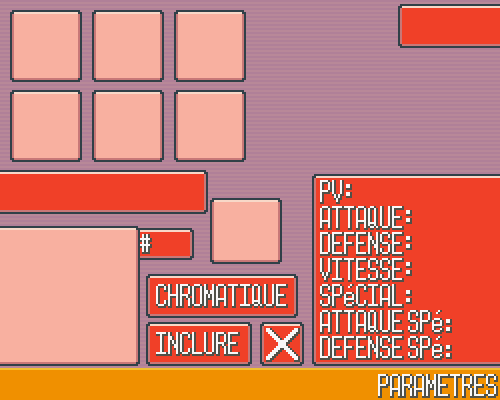
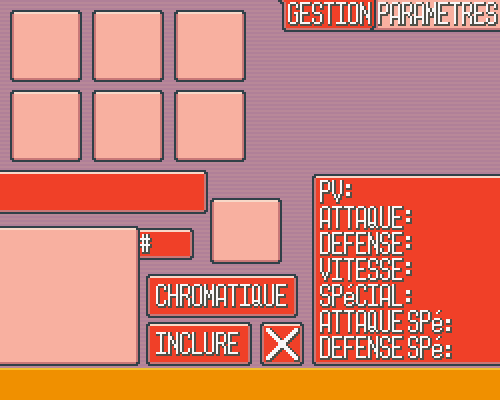
Amélioration de l'interface des équipes

Changed region(s): [[0.54, 0.0, 1.0, 0.12], [0.75, 0.93, 1.0, 1.0]]

diff --git a/fenetre_equipes.py b/fenetre_equipes.py
@@ -827,12 +827,7 @@ def creation_equipe(master,equipechoisie,x,y,event):
     path = PhotoImage('images/sprites3g/icones/empty.png')
     pokemon=Label(master, image=path,bg='#f8b0a0',borderwidth=0, highlightthickness=0)
     pokemon.place(x=6,y=230)
-    
-    path = ('images/fonds/etiquetteequipe1.png')
-    etiquetteequipeimg = ImageTk.PhotoImage(Image.open(path))
-    etiquetteequipe=Label(master,image=etiquetteequipeimg,borderwidth=0, highlightthickness=0,bg='#f8b0a0')
-    etiquetteequipe.place(x=398,y=4)
-    etiquetteequipe.photo=etiquetteequipeimg
+
     
     path = ('images/types/empty.png')
     type1img = ImageTk.PhotoImage(Image.open(path))
@@ -1482,10 +1477,10 @@ def creation_equipe(master,equipechoisie,x,y,event):
         #_________________________________________________________________________________________________________________
                 
                 
-    path = ('images/fonds/retourgestion.png')
+    path = ('images/fonds/gestionequipe.png')
     retour_gestionimg = ImageTk.PhotoImage(Image.open(path))
     retour_gestion=Label(master,image=retour_gestionimg,borderwidth=0, highlightthickness=0,bg='#f8b0a0')
-    retour_gestion.place(x=160,y=374)
+    retour_gestion.place(x=282,y=0)
     retour_gestion.photo=retour_gestionimg
     retour_gestion.bind('<Button-1>',lambda event:parametres_vers_gestion())
     retour_gestion.place_forget()
@@ -1551,11 +1546,10 @@ def creation_equipe(master,equipechoisie,x,y,event):
         
         inclure.place_forget()
         supprimer.place_forget()
-        etiquetteequipe.place_forget()
         pokemon.place_forget()
         parametres.place_forget()
         
-        retour_gestion.place(x=160,y=374)
+        retour_gestion.place(x=282,y=0)
         supprimerlesmembres.place(x=34,y=36)
         renommerlequipe.place(x=34,y=84)
         suprrimerlequipe.place(x=34,y=132)
@@ -1595,7 +1589,7 @@ def creation_equipe(master,equipechoisie,x,y,event):
         
         inclure.place(x=146,y=322)
         supprimer.place(x=260,y=322)
-        parametres.place(x=378,y=374)
+        parametres.place(x=376,y=0)
         
         label1.place(x=20,y=180)
         label2.place(x=32,y=180)        
@@ -1643,7 +1637,6 @@ def creation_equipe(master,equipechoisie,x,y,event):
         
         chromatiquelb.place(x=146,y=274)
         pokemon.place(x=6,y=230)
-        etiquetteequipe.place(x=398,y=4)
         type1.place(x=214,y=202)
         type2.place(x=214,y=232)
         
@@ -1681,7 +1674,7 @@ def creation_equipe(master,equipechoisie,x,y,event):
     path = ('images/fonds/parametresequipe.png')
     parametresimg = ImageTk.PhotoImage(Image.open(path))
     parametres=Label(master,image=parametresimg,borderwidth=0, highlightthickness=0,bg='#f8b0a0')
-    parametres.place(x=378,y=374)
+    parametres.place(x=376,y=0)
     parametres.photo=parametresimg
     parametres.bind('<Button-1>',lambda event:gerer_vers_parametres())
     
@@ -1712,7 +1705,7 @@ def choix_equipe_plus(master,pos,equipeorigine,fenetre):
     master.geometry('200x100+800+342')
     master.resizable(False,False)
     
-    background=PhotoImage(file='images/fonds/fondplusequipe.png')
+    background=PhotoImage(file='images/fonds/nouveaunom.png')
     bg=Label(master, image=background)
     bg.place(x=-2,y=-2)
     
@@ -1720,7 +1713,7 @@ def choix_equipe_plus(master,pos,equipeorigine,fenetre):
     
     listelabel=[]
     
-    path=PhotoImage(file='images/font3g/underscore.png')
+    path=PhotoImage(file='images/font3g/espace.png')
     
     label01=Label(master,image=path,borderwidth=0, highlightthickness=0)
     listelabel.append(label01)
@@ -1764,59 +1757,70 @@ def choix_equipe_plus(master,pos,equipeorigine,fenetre):
     
     label9=Label(master,image=path,borderwidth=0, highlightthickness=0)
     listelabel.append(label9)
-    label9.place(x=138,y=22)
+    label9.place(x=150,y=22)
             
     label10=Label(master,image=path,borderwidth=0, highlightthickness=0)
     listelabel.append(label10)
-    label10.place(x=150,y=22)
+    label10.place(x=162,y=22)
+    
+    print(len(listelabel))
     
     cherche=Entry(master)
     cherche.place(x=-50,y=-50)
     cherche.focus_set()
     bg.place(x=-2,y=-2)
     
-    def bg_renommer():
-        
-        master.title("Renommer l'équipe")
-                
-        background=PhotoImage(file='images/fonds/chercheequipenouveaunom.png')
-        bg.config(image=background)
-        bg.im=background
-    
     def lettre(effacer,liste):
         
         mot=cherche.get()
-        cherche.delete(len(mot),END)
+        cherche.delete(12,END)
         
         if effacer!='':
             
-            mot=''
+            for i in range(len(listelabel)):
+            
+                mot=''
+                path = ('images/font3g/espace.png')
+                img = ImageTk.PhotoImage(Image.open(path))
+                                
+                listelabel[i].configure(image=img, borderwidth=0, highlightthickness=0, bg='#f04028')
+                listelabel[i].im=img
             
         else:
             
-            mot=cherche.get()
+            for i in range((len(mot))):
+                
+                if i == 12:
+                    break
+                    
+                if mot[i] == ' ':
+                            
+                    effacer_fonction(listelabel)
+                    
+                elif mot[i] == '':
+                            
+                    path = ('images/font3g/nombres/espace.png')
+                    img = ImageTk.PhotoImage(Image.open(path))
+                            
+                    liste[i].configure(image=img, borderwidth=0, highlightthickness=0, bg='#f04028')
+                    liste[i].im=img
+                    
+                elif mot[i] == '_':
+                            
+                    path = ('images/font3g/nombres/underscore.png')
+                    img = ImageTk.PhotoImage(Image.open(path))
+                            
+                    liste[i].configure(image=img, borderwidth=0, highlightthickness=0, bg='#f04028')
+                    liste[i].im=img
+                    
+                else:
+                            
+                    path = ('images/font3g/'+mot[i]+'.png')
+                    img = ImageTk.PhotoImage(Image.open(path))
+                            
+                    liste[i].configure(image=img, borderwidth=0, highlightthickness=0, bg='#f04028')
+                    liste[i].im=img
             
-        for i in range(len(mot)):
-                
-            if mot[i] == ' ':
-                        
-                effacer_fonction(listelabel)
-                
-            elif mot[i] == '':
-                        
-                path = ('images/font3g/nombres/underscore.png')
-                img = ImageTk.PhotoImage(Image.open(path))
-                        
-                liste[i].configure(image=img, borderwidth=0, highlightthickness=0, bg='#f04028')
-                liste[i].im=img
-                
-            else:
-                        
-                path = ('images/font3g/'+mot[i]+'.png')
-                img = ImageTk.PhotoImage(Image.open(path))
-                        
-                liste[i].configure(image=img, borderwidth=0, highlightthickness=0, bg='#f04028')
-                liste[i].im=img
 
     def effacer_fonction(liste):
         
@@ -1825,7 +1829,7 @@ def choix_equipe_plus(master,pos,equipeorigine,fenetre):
         
         lettre('e',listelabel)
         
-        path = ('images/font3g/underscore.png')
+        path = ('images/font3g/espace.png')
         img = ImageTk.PhotoImage(Image.open(path))
                 
                 
@@ -1849,12 +1853,22 @@ def choix_equipe_plus(master,pos,equipeorigine,fenetre):
     
     def aller():
         
-        if pos == 'gerer':
+        if pos == None:
+            a=None
+        elif pos == 'gerer':
             
             if cherche.get()== '' or cherche.get()==  ' ' or cherche.get()==  '  ':
                 erreur_msg = tkinter.messagebox.showinfo(title='Erreur!', message=("Veuillez entrer un nom d'équipe valide"))
                 
             else:
+                
+                master.update()
+                background=PhotoImage(file='images/fonds/fondplusequipe.png')
+                bg.config(image=background)
+                bg.place(x=-2,y=-2)
+                bg.im=background
+                master.update()
+                
                 cherchetri=(cherche.get())
                 path=('txts/equipe'+cherchetri)
                 if not os.path.exists(path):
@@ -1871,6 +1885,14 @@ def choix_equipe_plus(master,pos,equipeorigine,fenetre):
                     creation_equipe('equipe',cherchetri,50,600,None)
                     
         elif pos == 'voir':
+            
+            master.update()
+            background=PhotoImage(file='images/fonds/fondplusequipe.png')
+            bg.config(image=background)
+            bg.place(x=-2,y=-2)
+            bg.im=background
+            master.update()
+            
             cherchetri=(cherche.get())
             path=('txts/equipe'+cherchetri)
             if not os.path.exists(path):
@@ -1890,8 +1912,13 @@ def choix_equipe_plus(master,pos,equipeorigine,fenetre):
                 
             else:
                 
-                bg_renommer()
-            
+                background=PhotoImage(file='images/fonds/nouveaunom.png')
+                bg.config(image=background)
+                bg.im=background
+                bg.place(x=-2,y=-2)
+                
+                master.title("Renommer l'équipe")
+                
                 cherchetri=(cherche.get())
                 path=('txts/equipe'+str(cherchetri))
                 
